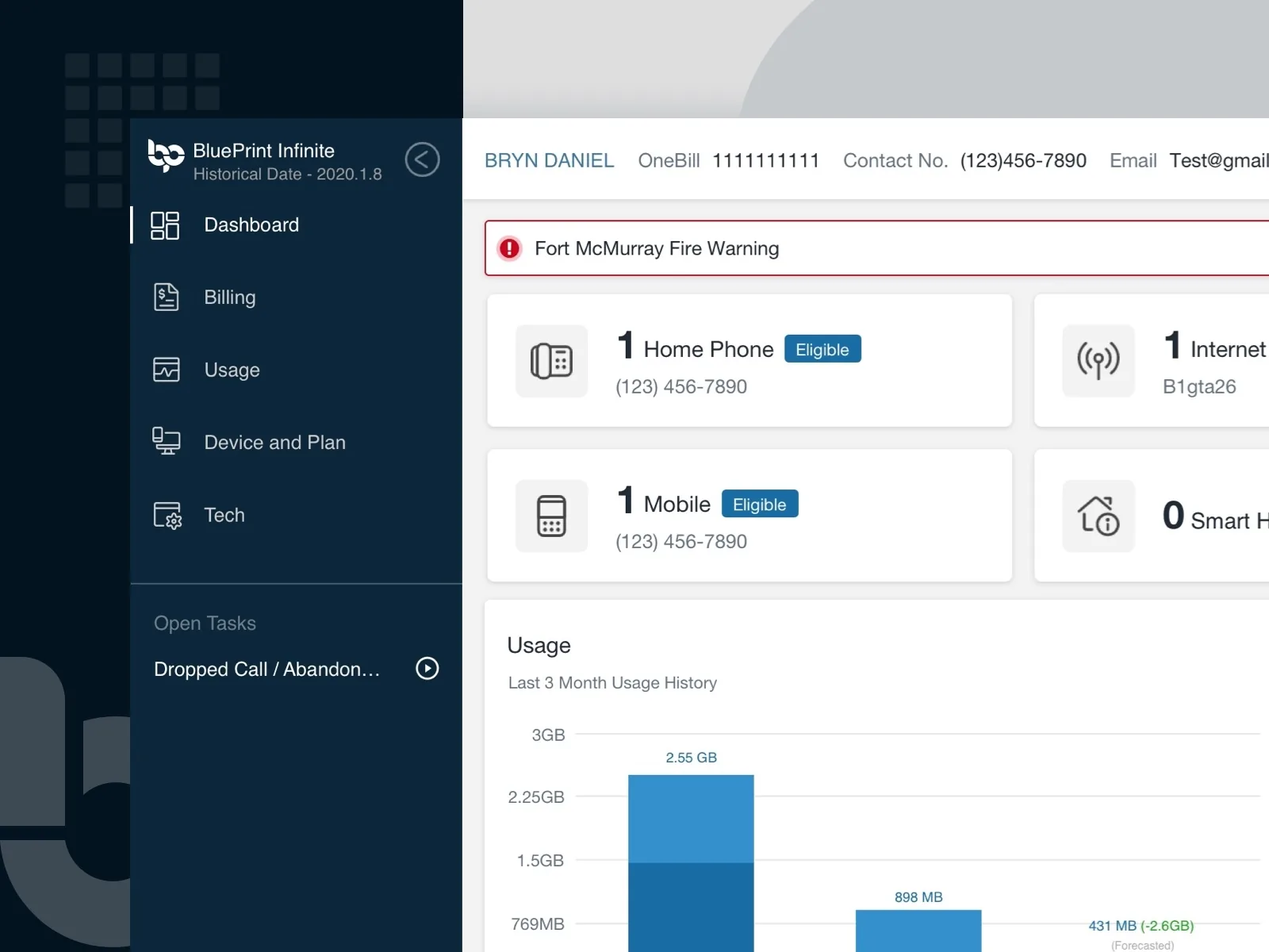
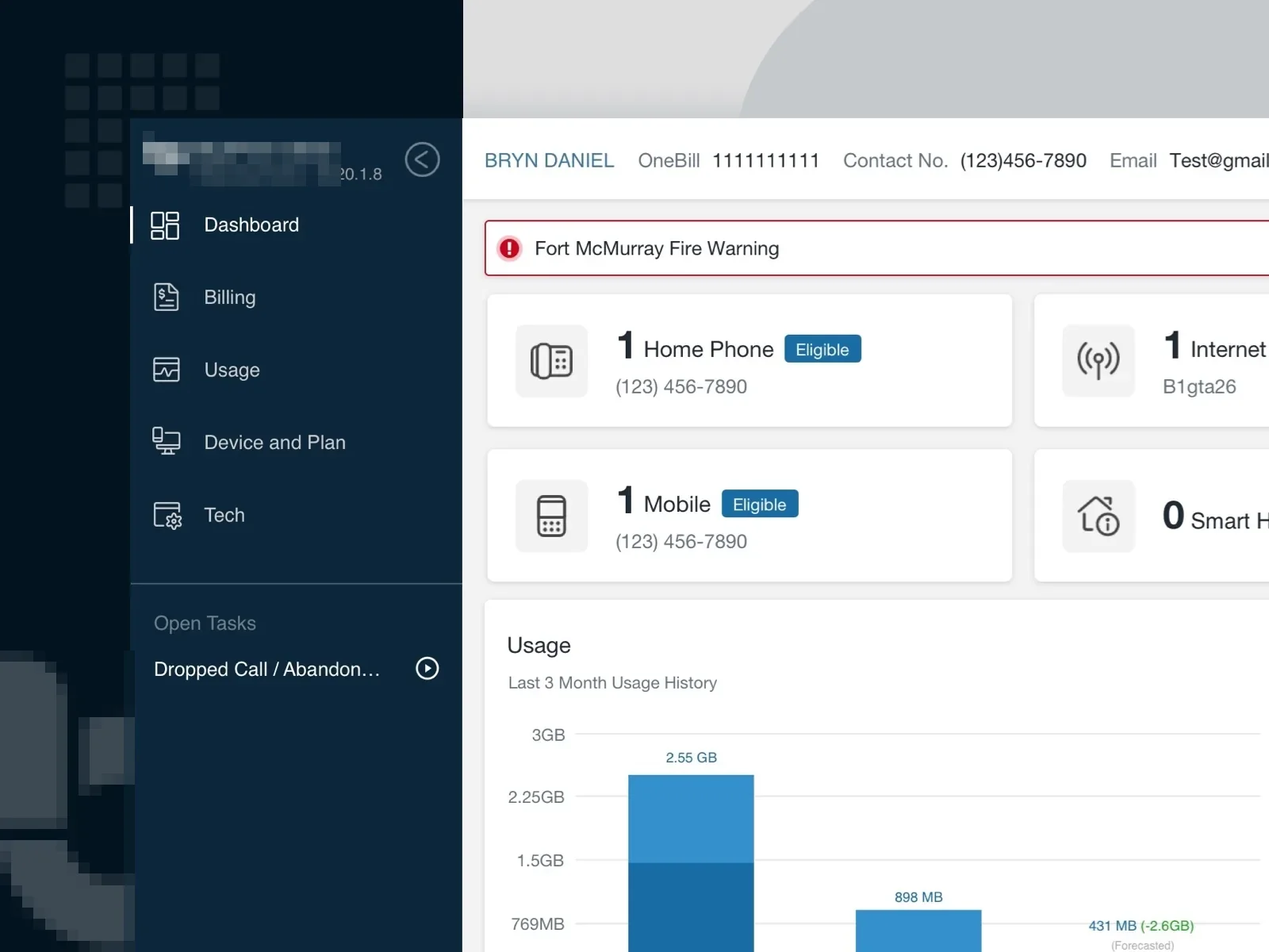
modify on comment

diff --git a/index.html b/index.html
@@ -11,7 +11,7 @@
 @supports (height:100svh){:root{--ch:100svh}} /* mobile: size the stage to the small viewport so nothing hides behind the browser toolbar */
 *{box-sizing:border-box;margin:0;padding:0}
 html{scroll-behavior:auto}
-body{height:1000vh;background:#ffffff;font-family:Inter,"Helvetica Neue",Helvetica,-apple-system,"PingFang SC","Noto Sans SC",sans-serif;color:var(--fg);overflow-x:hidden}
+body{height:780vh;background:#ffffff;font-family:Inter,"Helvetica Neue",Helvetica,-apple-system,"PingFang SC","Noto Sans SC",sans-serif;color:var(--fg);overflow-x:hidden}
 #stage{position:fixed;inset:0;overflow:hidden}
 #bg{position:absolute;inset:0}
 #wipe{position:absolute;inset:0;width:100%;height:100%;display:block}
@@ -51,6 +51,7 @@ body{height:1000vh;background:#ffffff;font-family:Inter,"Helvetica Neue",Helveti
 .gal{height:100%;overflow-y:auto;overscroll-behavior:contain;border-radius:1.5vw;background:#141414;color:#f4efe6;padding:1.4vw;scrollbar-width:thin;scrollbar-color:#f4efe6 transparent}
 .gal::-webkit-scrollbar{width:6px}.gal::-webkit-scrollbar-thumb{background:#f4efe6;border-radius:3px}.gal::-webkit-scrollbar-track{background:transparent}
 .galhead{display:flex;justify-content:space-between;font-size:11px;letter-spacing:.2em;text-transform:uppercase;opacity:.6;padding:.2vw .2vw 1.2vw}
+.galhead em{font-style:normal}
 .gal figure{margin:0 0 1.6vw}
 .gal img{width:100%;display:block;border-radius:.9vw;background:#f4efe6;transition:transform .5s cubic-bezier(.34,1.3,.64,1)}
 .gal figure:hover img{transform:scale(1.015)}
@@ -63,8 +64,13 @@ body{height:1000vh;background:#ffffff;font-family:Inter,"Helvetica Neue",Helveti
 .gal figcaption b{font-size:1.6vw;font-weight:800;letter-spacing:-.05em;line-height:1;color:#ffc93c}
 .gal figcaption strong{display:block;font-size:.95vw;font-weight:600;letter-spacing:-.01em}
 .gal figcaption span{display:block;font-size:.75vw;opacity:.6;margin-top:.25vw;letter-spacing:.02em}
+/* experience (scene 5): the dark card is the frame, the controls sit under it like the reels; ink controls so they read on lilac and over the cream shape */
+.car.tcar .ctl{color:#141414}
+.car.tcar .ctl button{background:#141414;color:#f4efe6}.car.tcar .ctl button:hover{background:#ffc93c;color:#141414}
+.fx.tcar{display:flex;flex-direction:column;gap:1.2vw}
+.tcar .frame.tl{aspect-ratio:auto;flex:1;min-height:0;height:auto}
 .shape .tl{height:100%;border-radius:1.5vw;background:#141414;color:#f4efe6;padding:1.4vw 1.6vw;display:flex;flex-direction:column;overflow:hidden;outline:none}
-.tl:focus-visible{box-shadow:0 0 0 2px #ffc93c inset}
+.tcar:focus-visible .frame{box-shadow:0 0 0 2px #ffc93c inset}
 .xp{flex:1;min-height:0;display:grid;grid-template-columns:8.5vw 1fr;grid-template-rows:minmax(0,1fr);gap:0 1.8vw}
 .xp .rail{display:flex;flex-direction:column;align-self:start}
 .xp .yrs{position:relative;display:flex;flex-direction:column}
@@ -93,7 +99,7 @@ body{height:1000vh;background:#ffffff;font-family:Inter,"Helvetica Neue",Helveti
 .xp .cnt{font-size:12px;letter-spacing:.2em;font-variant-numeric:tabular-nums;flex-basis:100%;margin-top:.5vw;opacity:.7}
 .xp .card.swap .body{animation:xpIn .55s cubic-bezier(.34,1.3,.64,1)}
 @keyframes xpIn{0%{opacity:0;transform:translateY(16px)}100%{opacity:1;transform:none}}
-.car{display:flex;flex-direction:column;gap:1.2vw}
+.car,.fx.car{display:flex;flex-direction:column;gap:1.2vw}
 .car .frame{position:relative;width:100%;aspect-ratio:16/9;border-radius:1.5vw;overflow:hidden;background:#141414}
 .car .track{display:flex;height:100%;transition:transform .75s cubic-bezier(.34,1.25,.64,1)}
 .car .slide{position:relative;flex:0 0 100%;height:100%}
@@ -113,13 +119,13 @@ body{height:1000vh;background:#ffffff;font-family:Inter,"Helvetica Neue",Helveti
 .car .cover i{width:0;height:0;border-left:3.2vw solid currentColor;border-top:2vw solid transparent;border-bottom:2vw solid transparent;margin-left:.6vw;transition:transform .5s cubic-bezier(.34,1.56,.64,1)}
 .car .cover:hover i{transform:scale(1.2)}
 .car .cover span{font-size:12px;letter-spacing:.16em;text-transform:uppercase;opacity:.7}
-.car .ctl{display:flex;align-items:center;gap:1.2vw;color:#f4efe6}
-.car .ctl button{width:3vw;height:3vw;border-radius:50%;border:0;background:#f4efe6;color:#141414;font:700 1.2vw/1 Inter,sans-serif;cursor:pointer;transition:transform .4s cubic-bezier(.34,1.56,.64,1),background .3s}
-.car .ctl button:hover{transform:scale(1.15) rotate(-8deg);background:#ffc93c}
-.car .cnt{font-size:12px;letter-spacing:.2em;font-variant-numeric:tabular-nums}
-.car .dots{display:flex;gap:.6vw;margin-left:auto}
-.car .dots i{width:.7vw;height:.7vw;border-radius:50%;background:#f4efe6;opacity:.35;transition:all .3s}
-.car .dots i.on{opacity:1;transform:scale(1.4);background:#ffc93c}
+.car .ctl,.gal .ctl{display:flex;align-items:center;gap:1.2vw;color:#f4efe6}
+.car .ctl button,.gal .ctl button{width:3vw;height:3vw;border-radius:50%;border:0;background:#f4efe6;color:#141414;font:700 1.2vw/1 Inter,sans-serif;cursor:pointer;transition:transform .4s cubic-bezier(.34,1.56,.64,1),background .3s}
+.car .ctl button:hover,.gal .ctl button:hover{transform:scale(1.15) rotate(-8deg);background:#ffc93c}
+.car .cnt,.gal .cnt{font-size:12px;letter-spacing:.2em;font-variant-numeric:tabular-nums}
+.car .dots,.gal .dots{display:flex;gap:.6vw;margin-left:auto}
+.car .dots i,.gal .dots i{width:.7vw;height:.7vw;border-radius:50%;background:#f4efe6;opacity:.35;transition:all .3s}
+.car .dots i.on,.gal .dots i.on{opacity:1;transform:scale(1.4);background:#ffc93c}
 .fx-jelly{animation:fxJelly .7s cubic-bezier(.34,1.56,.64,1)}
 .fx-spin{animation:fxSpin .8s cubic-bezier(.34,1.4,.64,1)}
 .fx-wobble{animation:fxWobble .8s ease-out}
@@ -190,7 +196,7 @@ body{height:1000vh;background:#ffffff;font-family:Inter,"Helvetica Neue",Helveti
 @media (prefers-reduced-motion:reduce){@view-transition{navigation:none}}
 @media (max-width:720px){.brand span{display:none}}
 @media (orientation:portrait){
-  body{height:550vh} /* half the scroll distance per section on phones: ~90vh per page instead of 180vh */
+  body{height:530vh} /* shorter on phones: ~86vh of scrolling per page */
   .shape{left:var(--ml,var(--dl));top:var(--mt,var(--dt));bottom:var(--mb,var(--db));width:var(--mw,var(--dw));height:var(--mh,var(--dh))}
   .shape.txt .fx{font-size:var(--mfs,var(--dfs))}
   .shape.geo .fx{border-radius:var(--mr,var(--dr))}
@@ -203,17 +209,20 @@ body{height:1000vh;background:#ffffff;font-family:Inter,"Helvetica Neue",Helveti
   .copy .links{margin-top:20px;gap:18px;font-size:13px;flex-wrap:wrap}
   .nav{right:10px;gap:10px}
   .counter{right:22px}
-  .gal{padding:3vw;border-radius:4vw}.gal img{border-radius:2.5vw}.gal figure{margin-bottom:4vw}
+  .gal{padding:3vw;border-radius:4vw}.gal img{border-radius:2.5vw}.gal figure{margin-bottom:4vw}.galhead .gcount{display:none}
+  .short .shape.gallery{--mt:calc(var(--ch)*.5)!important;--mh:calc(var(--ch)*.46)!important}
   .gal figcaption{padding:2.5vw .5vw 0;gap:3vw}.gal figcaption strong{font-size:14px}.gal figcaption span{font-size:12px}.gal figcaption b{font-size:22px}
   .gal .more{font-size:11px;margin-top:6px}
+  .tcar .ctl{gap:3vw}.tcar .ctl button{width:36px;height:36px;font-size:14px}
   .car{gap:3vw}.car .frame{border-radius:4vw}.car .ctl{gap:3vw}.car .ctl button{width:36px;height:36px;font-size:14px}.car .dots{gap:6px}.car .dots i{width:6px;height:6px}
   .car .cover b{font-size:14vw;left:5vw;top:3vw}.car .cover i{border-left-width:8vw;border-top-width:5vw;border-bottom-width:5vw}
   .car .cover::before{width:16vw;height:16vw;margin:-8vw 0 0 -8vw}.car .cover span{left:4vw;bottom:3vw;max-width:80%;font-size:10px;padding:6px 10px}
-  .tl{padding:4vw;border-radius:4vw}
-  .xp{grid-template-columns:1fr;grid-template-rows:auto minmax(0,1fr) auto;gap:3vw 0}
+  .shape .tl{padding:6.5vw 6vw 5.5vw;border-radius:4vw} /* .shape .tl so it beats the desktop rule of the same name */
+  .xp{grid-template-columns:1fr;grid-template-rows:auto minmax(0,1fr) auto;gap:5vw 0}
+  .xp .body{padding-right:3vw}
   .xp .rail{display:contents}
   .xp .yrs{order:0}.xp .card{order:1}.xp .ctl{order:2}
-  .xp .yrs{flex-direction:row;justify-content:space-between;align-items:flex-end;padding:0 1vw}
+  .xp .yrs{flex-direction:row;justify-content:space-between;align-items:flex-end;padding:0 1.5vw}
   .xp .yrs::before{left:4vw;right:4vw;top:auto;bottom:calc(1.5vw - 1px);width:auto;height:2px}
   .xp .yr{flex-direction:column;gap:6px;padding:0}
   .xp .yr .full{display:none}.xp .yr .short{display:block;font-size:10px}
@@ -363,14 +372,14 @@ const SCENES=[
     {t:'rect',x:47,y:30,w:'6vw',h:'12vw',c:C.coral,r:'3vw 3vw 0 0',d:.2},
     {t:'rect',x:47.5,y:66,w:'5vw',h:'5vw',c:C.blue,rot:45,d:.26},
     {t:'gallery',x:54,y:11,w:'40vw',h:'78vh',d:0,items:[
-      {src:'assets/ds-01.webp',title:'MacroHealth Design System',meta:'A design system AI can read · Figma → code for agents · 2026',href:'work/design-system.html',vt:'ds-hero'},
+      {src:'assets/ds-01.webp',title:'MacroHealth Design System',meta:'A design system AI can read · Figma → code for agents · 2026',href:'work/design-system.html',vt:'ds-hero',pos:'center'},
       {src:'assets/ux-03.webp',title:'BluePrint Infinite',meta:'Bell · Call-centre flow system · 2019–2021',href:'work/blueprint.html',vt:'bp-hero'},
       {src:'assets/ux-01.webp',title:'HealthWave',meta:'Landing pages, illustration & icons · Ottawa · 2015–2016',href:'work/healthwave.html',vt:'hw-hero',cta:'View the project →'},]},
     {t:'rect',x:90,y:84,w:'8vw',h:'8vw',c:C.cream,r:'50% 0 50% 0',d:.3},
     {t:'rect',x:58,y:92,w:'12vw',h:'2.2vh',c:C.ink,r:'2vh',d:.36}]},
-  {bg:C.blue,fg:C.cream,k:'02 / Motion Design',title:['Make it','move'],p:'Micro-interactions, UI motion and motion graphics — from storyboards in After Effects to easing curves in code.',tags:['After Effects','Lottie / Rive','UI Motion'],links:['Animated typefaces case study →'],
+  {bg:C.blue,fg:C.cream,k:'02 / Motion Design',title:['Make it','move'],p:'Micro-interactions, UI motion and motion graphics — from storyboards in After Effects to easing curves in code.',tags:['After Effects','Cinema 4D / Blender','UI Motion'],links:['Animated typefaces case study →'],
    shapes:[
-    {t:'video',x:54,y:10,w:'40vw',h:'auto',c:C.cream,d:0,videos:[{id:'286234223',h:'f9b25af99f',title:'Dancing Script animated typeface intro',dur:'0:28',poster:'assets/motion/reel-01.webp'},{id:'120609540',h:'7818cb482d',title:'Supertcp',dur:'1:08',poster:'assets/motion/reel-02.webp'},{id:'121668116',h:'7551d8d867',title:'PSI-missing PV',dur:'1:32',poster:'assets/motion/reel-03.webp'},{id:'73495035',h:'95e8ff8ee7',title:'腦漿炸裂少女 PV',dur:'1:44',poster:'assets/motion/reel-04.webp'}]},
+    {t:'video',x:54,y:10,w:'40vw',h:'auto',c:C.cream,d:0,videos:[{id:'286234223',h:'f9b25af99f',title:'Dancing Script animated typeface intro',dur:'0:28',poster:'assets/motion/reel-01.webp'},{id:'1225807597',title:'Chaos Order',dur:'4:36',poster:'assets/motion/reel-chaos.webp'},{id:'120609540',h:'7818cb482d',title:'Supertcp',dur:'1:08',poster:'assets/motion/reel-02.webp'},{id:'121668116',h:'7551d8d867',title:'PSI-missing PV',dur:'1:32',poster:'assets/motion/reel-03.webp'},{id:'73495035',h:'95e8ff8ee7',title:'腦漿炸裂少女 PV',dur:'1:44',poster:'assets/motion/reel-04.webp'}]},
     {t:'rect',x:54,y:62,w:'8vw',h:'8vw',c:C.cream,r:'50%',d:.1},
     {t:'rect',x:63,y:62,w:'8vw',h:'8vw',c:C.cream,r:'50% 50% 50% 0',d:.14},
     {t:'rect',x:72,y:62,w:'8vw',h:'8vw',c:C.yellow,r:'50% 50% 0 0',d:.18},
@@ -384,7 +393,7 @@ const SCENES=[
     {t:'ring',x:88,y:78,w:'7vw',h:'7vw',c:C.cream,bw:'1vw',d:.4},
     {t:'rect',x:47,y:74,w:'5vw',h:'5vw',c:C.coral,rot:30,d:.42},
     {t:'rect',x:88,y:3,w:'8vw',h:'8vw',c:C.ink,r:'60% 40% 30% 70% / 60% 30% 70% 40%',d:.44}]},
-  {bg:C.cream,fg:C.ink,k:'03 / Development & Ship',title:['Build it','and ship it'],p:'React, Next.js and TypeScript. Design tokens become components, motion specs become real interactions — then it goes live. Release, measure, iterate.',tags:['React / Next.js','TypeScript','GSAP / Framer Motion','Release & iterate'],links:['Design system case study →'],
+  {bg:C.cream,fg:C.ink,k:'03 / Development & Ship',title:['Build it','and ship it'],p:'React, Next.js and TypeScript. Design tokens become components, motion specs become real interactions — then it goes live. Release, measure, iterate.',tags:['React / Next.js','TypeScript','Release & iterate'],links:['Design system case study →'],
    shapes:[
     {t:'rect',x:54,y:12,w:'40vw',h:'58vh',c:C.ink,r:'1.5vw',d:0},
     {t:'circle',x:55.4,y:13.6,w:'1vw',h:'1vw',c:C.coral,d:.04},
@@ -403,11 +412,11 @@ const SCENES=[
   {bg:C.lilac,fg:C.ink,k:'About',title:['Bit more','about me'],p:'I started out as an engineer and picked up UX and motion design along the way — so I can design what I build, and build what I design. Today I\'m a Senior Frontend Engineer at MacroHealth (Vancouver), working remotely from Ottawa.',
    shapes:[
     {t:'timeline',x:54,y:10,w:'40vw',h:'78vh',d:0,items:[
-      {when:'2021 — Now',role:'Senior Frontend Engineer',org:'MacroHealth · Vancouver (remote from Ottawa)',desc:'Front-end across MacroHealth\'s healthcare data products — from the shared component library to the customer portal.',bullets:['Led the migration of the customer Portal off Liferay onto a standalone React / Vite app with a Node BFF','Built and maintain the company-wide React component library (common-ui) used across all products','Created the design system package: Figma Code Connect mappings, token pipeline, Storybook and an MCP server for design-to-code','Shipped the Network Optimization Analytics UI — rule builder, regional maps, solution comparison, PDF export','Rebuilt Tableau dashboards as native React reporting widgets with drill-downs and streamed exports'],stack:['React','TypeScript','Vite','Tailwind','Storybook','GraphQL','Node.js','Figma Code Connect']},
-      {when:'2016 — 2021',role:'UX Developer',org:'Bell · Ottawa',desc:'Blueprint Infinite — Bell\'s large-scale agent web app.',bullets:['Led the end-to-end redesign: research, wireframes, UI mockups and prototypes','Designed and built the design system with Sketch, Angular and Storybook','Implemented core UI functionality in an Agile team with code reviews','Created new app branding and promotional videos'],stack:['Angular','Storybook','Sketch','After Effects']},
-      {when:'2015 — 2016',role:'Designer & Front-end Developer',org:'Fullscript · Ottawa',desc:'HealthWave — practitioner e-commerce platform.',bullets:['Designed the UI for the HealthWave iPad app','Created and implemented the UI kit for the web app','Built the public catalog and category pages','Designed and developed the marketing landing page'],stack:['UI Kit','HTML / CSS','JavaScript']},
-      {when:'2014 — 2015',role:'Designer & Front-end Developer',org:'LiveQoS · Ottawa',desc:'LiveInsight network analytics dashboard and SuperTCP.',bullets:['Built the LiveInsight dashboard with Angular.js and D3.js on Rails / PostgreSQL','UI/UX and mobile-first design for SuperTCP (Bootstrap, Less, CoffeeScript)','Produced promo videos with Cinema 4D, After Effects, Illustrator and Photoshop'],stack:['Angular.js','D3.js','Cinema 4D','After Effects']},
-      {when:'2013 — 2014',role:'Web Application Developer',org:'inVUze · Kitchener',desc:'Web apps, games and presentation tools.',bullets:['WebSocket presentation app: control slides from a phone while the audience comments live','"Dye Dash" — a four-player online game using phones as controllers','Designed and developed the company website'],stack:['ASP.NET','SQL Server','jQuery','HTML5']},
+      {when:'2021 — Now',role:'Senior Frontend Engineer',org:'MacroHealth · Vancouver (remote from Ottawa)',desc:'I own the front end across MacroHealth\'s healthcare data products, from the shared UI library to the customer portal.',bullets:['Led the design and build of the new customer portal, replacing a legacy CMS-based portal with a standalone React app','Led the design and implementation of the company-wide UI component library, now used by every product team','Made the design system machine-readable so designers and coding agents build from one source of truth','Led front-end delivery of the analytics product from first mockups to shipped features','Replaced embedded BI dashboards with native, interactive reporting inside the product'],stack:['React','TypeScript','Storybook','GraphQL','Node.js','Figma','MCP']},
+      {when:'2016 — 2021',role:'UX Developer',org:'Bell · Ottawa',desc:'BluePrint Infinite, the agent web app used across Bell\'s call centres.',bullets:['Led the end-to-end redesign that merged two legacy tools into one and cut average handling time per call','Designed and built the product\'s design system and component library, then implemented core features with the team','Created the product\'s identity and its promotional videos'],stack:['Angular','Storybook','Sketch','After Effects']},
+      {when:'2015 — 2016',role:'Designer & Front-end Developer',org:'Fullscript · Ottawa',desc:'HealthWave, a practitioner e-commerce platform.',bullets:['Designed the iPad app UI and built the UI kit for the web app','Designed and built the public marketing site, including its illustration and icon sets','Built the public catalogue and category pages'],stack:['UI Kit','HTML / CSS','JavaScript']},
+      {when:'2014 — 2015',role:'Designer & Front-end Developer',org:'LiveQoS · Ottawa',desc:'LiveInsight network analytics and the SuperTCP product.',bullets:['Built the LiveInsight analytics dashboard from the ground up, front end and data visualisation','Led UI/UX and mobile-first design for SuperTCP','Produced the products\' promotional videos'],stack:['Angular.js','D3.js','Cinema 4D','After Effects']},
+      {when:'2013 — 2014',role:'Web Application Developer',org:'inVUze · Kitchener',desc:'Web apps, games and presentation tools.',bullets:['Built a live presentation app: slides controlled from a phone while the audience comments in real time','Built a four-player online game that uses phones as controllers','Designed and developed the company website'],stack:['ASP.NET','SQL Server','jQuery','HTML5']},
       {when:'2011 — 2014',role:'Diploma, Computer Software Technology',org:'Conestoga College',desc:'',bullets:[],stack:[]}]},
     {t:'ring',x:46,y:12,w:'6vw',h:'6vw',c:C.ink,bw:'1.1vw',d:.14},
     {t:'rect',x:47,y:30,w:'6vw',h:'12vw',c:C.yellow,r:'3vw 3vw 0 0',d:.2},
@@ -427,8 +436,8 @@ const SCENES=[
 const bars=(i)=>({x:9+[0,6,6,12,12,6,0,0,6,12,6,0][i]*1.1,y:53.5+i*2.35,w:([10,20,10,16,8,22,6,14,18,12,9,5][i]*2.4)+'vw',h:'1.3vh'});
 const M=[
   [{x:14,y:36,w:'72vw',h:'72vw'},{x:-10,bottom:0,w:'36vw',h:'18vw'},{x:84,y:38,w:'7vw',h:'7vw'},{x:6,y:42,w:'5vw',h:'5vw'},null,{x:10,bottom:0,w:'80vw',h:'56vh'}],
-  [{x:82,y:44,w:'6vw',h:'6vw'},null,{x:5,y:45,w:'4vw',h:'4vw'},{x:6,y:52,w:'88vw',h:'43vh'},null,null],
-  [{x:6,y:46,w:'88vw',h:'auto'},{x:6,y:82,w:'14vw',h:'14vw'},{x:24,y:82,w:'14vw',h:'14vw'},{x:42,y:82,w:'14vw',h:'14vw'},{x:60,y:82,w:'14vw',h:'14vw'},{x:78,y:82,w:'7vw',h:'14vw'},null,null,null,null,null,{x:88,y:82,w:'6vw',h:'6vw'},null,{x:84,y:40,w:'9vw',h:'9vw'}],
+  [{x:82,y:44,w:'6vw',h:'6vw'},null,{x:5,y:45,w:'4vw',h:'4vw'},{x:6,y:45,w:'88vw',h:'50vh'},null,null],
+  [{x:6,y:53,w:'88vw',h:'auto'},null,null,null,null,null,null,null,null,null,null,null,null,{x:84,y:40,w:'9vw',h:'9vw'}], /* phones: only the carousel and the blob; the shape row underneath is hidden */
   [{x:6,y:48,w:'88vw',h:'36vh'},{x:8.5,y:49.6,w:'2.2vw',h:'2.2vw'},{x:11.8,y:49.6,w:'2.2vw',h:'2.2vw'},{x:15.1,y:49.6,w:'2.2vw',h:'2.2vw'},{x:22,y:49.4,w:'22vw',h:'1.2vh'},
    ...Array.from({length:12},(_,i)=>bars(i)),{x:22,y:82.5,w:'3vw',h:'1.6vh'},{x:66,y:76,fs:'22vw'},{x:80,y:90,w:'14vw',h:'14vw'},null,{x:84,y:40,w:'5vw',h:'5vw'},{x:6,y:91,w:'40vw',h:'1.6vh'},{x:48,y:91,w:'12vw',h:'1.6vh'},{x:64,y:90.2,fs:'3.8vw'}],
   [{x:6,y:50,w:'88vw',h:'46vh'},null,null,null,null,null],
@@ -509,11 +518,11 @@ const S=SCENES.map((sc,i)=>{
     else if(s.t==='img'){f.innerHTML=`<img src="${s.src}" alt="" draggable="false">`}
     else if(s.t==='rig'){f.innerHTML=`<div class="char"><img src="${s.src}" alt="" draggable="false"><div class="face"></div><div class="bubble" aria-live="polite"></div></div>`;initRig(f.querySelector('.char'),s)}
     else if(s.t==='ring'){f.style.borderRadius='50%';f.style.border=`${U(s.bw)} solid ${s.c}`}
-    else if(s.t==='gallery'){f.classList.add('gal');
-      f.innerHTML=`<div class="galhead"><span>Selected work</span><span>scroll ↓</span></div>`+s.items.map((it,i)=>{const inner=`<img src="${it.src}" alt="${it.title}" loading="${it.vt?'eager':'lazy'}" draggable="false"${it.vt?` data-vt="${it.vt}"`:''}><figcaption><b>0${i+1}</b><div><strong>${it.title}</strong><span>${it.meta}</span>${it.href?`<em class="more">${it.cta||'Read the case study →'}</em>`:''}</div></figcaption>`;return it.href?`<figure class="has-cs"><a href="${it.href}" aria-label="${it.title} — read the case study">${inner}</a></figure>`:`<figure>${inner}</figure>`}).join('');
+    else if(s.t==='gallery'){f.classList.add('gal');const n=s.items.length;
+      f.innerHTML=`<div class="galhead"><span>Selected work</span><span><em class="gcount">${n} case studies · </em>scroll ↓</span></div>`+s.items.map((it,i)=>{const inner=`<img src="${it.src}" alt="${it.title}" loading="${it.vt?'eager':'lazy'}" draggable="false"${it.vt?` data-vt="${it.vt}"`:''}><figcaption><b>0${i+1}</b><div><strong>${it.title}</strong><span>${it.meta}</span>${it.href?`<em class="more">${it.cta||'Read the case study →'}</em>`:''}</div></figcaption>`;return it.href?`<figure class="has-cs"><a href="${it.href}" aria-label="${it.title} — ${(it.cta||'Read the case study').replace(' →','').toLowerCase()}">${inner}</a></figure>`:`<figure>${inner}</figure>`}).join('');
       f.addEventListener('wheel',e=>{const atTop=f.scrollTop<=0&&e.deltaY<0,atEnd=f.scrollTop+f.clientHeight>=f.scrollHeight-1&&e.deltaY>0;if(!atTop&&!atEnd)e.stopPropagation()},{passive:true});}
-    else if(s.t==='timeline'){f.classList.add('tl');const items=s.items;let idx=0;
-      f.innerHTML=`<div class="galhead"><span>Experience</span></div><div class="xp"><div class="rail"><div class="yrs">${items.map(it=>`<button class="yr" type="button" title="${it.role}"><span class="full">${it.when}</span><span class="short">${it.when.slice(0,4)}</span><i></i></button>`).join('')}</div><div class="ctl"><button class="pv" aria-label="previous role">←</button><button class="nx" aria-label="next role">→</button><span class="cnt"></span></div></div><div class="card"><div class="body"></div></div></div>`;
+    else if(s.t==='timeline'){f.classList.add('car','tcar');const items=s.items;let idx=0;
+      f.innerHTML=`<div class="frame tl"><div class="galhead"><span>Experience</span></div><div class="xp"><div class="rail"><div class="yrs">${items.map(it=>`<button class="yr" type="button" title="${it.role}"><span class="full">${it.when}</span><span class="short">${it.when.slice(0,4)}</span><i></i></button>`).join('')}</div></div><div class="card"><div class="body"></div></div></div></div><div class="ctl"><button class="pv" aria-label="previous role">←</button><span class="cnt"></span><button class="nx" aria-label="next role" style="margin-left:auto">→</button></div>`;
       const body=f.querySelector('.body'),card=f.querySelector('.card'),cnt=f.querySelector('.cnt'),yrs=[...f.querySelectorAll('.yr')];
       const render=it=>`<div class="when">${it.when}</div><div class="role">${it.role}</div><div class="org">${it.org}</div>${it.desc?`<p>${it.desc}</p>`:''}${it.bullets&&it.bullets.length?`<ul>${it.bullets.map(b=>`<li>${b}</li>`).join('')}</ul>`:''}${it.stack&&it.stack.length?`<div class="stack">${it.stack.map(t=>`<em>${t}</em>`).join('')}</div>`:''}`;
       const go=n=>{idx=(n+items.length)%items.length;body.innerHTML=render(items[idx]);body.scrollTop=0;cnt.textContent=`0${idx+1} / 0${items.length}`;yrs.forEach((y,i)=>y.classList.toggle('on',i===idx));card.classList.remove('swap');void card.offsetWidth;card.classList.add('swap')};
@@ -530,7 +539,7 @@ const S=SCENES.map((sc,i)=>{
       const go=n=>{stop();idx=(n+slides.length)%slides.length;track.style.transform=`translateX(${-idx*100}%)`;dots.forEach((d,i)=>d.classList.toggle('on',i===idx));cnt.textContent=`0${idx+1} / 0${slides.length}`};
       f.querySelector('.pv').onclick=e=>{e.stopPropagation();go(idx-1)};f.querySelector('.nx').onclick=e=>{e.stopPropagation();go(idx+1)};
       slides.forEach((sl,i)=>{const cv=sl.querySelector('.cover');cv.onkeydown=e=>{if(e.key==='Enter'||e.key===' '){e.preventDefault();cv.click()}};cv.onclick=()=>{stop();const v=s.videos[i];const fr=document.createElement('iframe');
-        fr.src=`https://player.vimeo.com/video/${v.id}?h=${v.h}&autoplay=1&title=0&byline=0&portrait=0&dnt=1`;fr.allow='autoplay; fullscreen; picture-in-picture';fr.setAttribute('allowfullscreen','');fr.setAttribute('referrerpolicy','strict-origin-when-cross-origin');
+        fr.src=`https://player.vimeo.com/video/${v.id}?${v.h?`h=${v.h}&`:''}autoplay=1&title=0&byline=0&portrait=0&dnt=1`;fr.allow='autoplay; fullscreen; picture-in-picture';fr.setAttribute('allowfullscreen','');fr.setAttribute('referrerpolicy','strict-origin-when-cross-origin');
         sl.appendChild(fr);sl.querySelector('.cover').style.display='none'}});
       d._stop=stop;}
     else if(s.t==='slot'){f.style.borderRadius=U(s.r||'1vw');f.style.border=`2px dashed ${s.c}`;f.style.color=s.c;f.innerHTML=`<span>${s.label}</span>`}
@@ -583,6 +592,18 @@ addEventListener('scroll',()=>{target=clamp(scrollY/maxScroll(),0,1)},{passive:t
 /* deep links (index.html#work etc.) land on the scene directly; and whatever the start position, begin there instead of animating from page one */
 const IDS=['home','work','motion','dev','about','contact'];let lastHash=-1;
 {const gi=IDS.indexOf(location.hash.slice(1));if(gi>0)scrollTo(0,(gi/(N-1))*maxScroll());target=cur=prev=clamp(scrollY/maxScroll(),0,1)}
+/* snap: when scrolling stops between two scenes, finish the move. Past SNAP_AT of a segment in the direction of travel it completes to the next scene, otherwise it settles back. A new wheel/touch input cancels the animation. */
+const SNAP_AT=.22,SNAP_MS=650;let snapTimer=0,snapAnim=0,lastY=scrollY,dir=1;
+const segPx=()=>maxScroll()/(N-1);
+const cancelSnap=()=>{if(snapAnim){cancelAnimationFrame(snapAnim);snapAnim=0}};
+const animateTo=y=>{cancelSnap();const y0=scrollY,d=y-y0;if(Math.abs(d)<1)return;
+  if(matchMedia('(prefers-reduced-motion: reduce)').matches){scrollTo(0,y);return}
+  const t0=performance.now();const step=now=>{const k=Math.min(1,(now-t0)/SNAP_MS),e=k<.5?4*k*k*k:1-Math.pow(-2*k+2,3)/2;scrollTo(0,y0+d*e);snapAnim=k<1?requestAnimationFrame(step):0};
+  snapAnim=requestAnimationFrame(step)};
+const snap=()=>{const sp=segPx();if(!sp)return;const s=scrollY/sp,i=Math.floor(s),f=s-i;if(f<.01||f>.99)return;
+  const to=dir>0?(f>SNAP_AT?i+1:i):(f<1-SNAP_AT?i:i+1);animateTo(clamp(to,0,N-1)*sp)};
+addEventListener('scroll',()=>{const y=scrollY;if(y!==lastY)dir=y>lastY?1:-1;lastY=y;if(snapAnim)return;clearTimeout(snapTimer);snapTimer=setTimeout(snap,180)},{passive:true});
+addEventListener('wheel',cancelSnap,{passive:true});addEventListener('touchstart',cancelSnap,{passive:true});addEventListener('keydown',cancelSnap);
 /* portrait phones with little height (browser toolbar showing) get a compact layout; use the smallest height seen so the toolbar hiding on scroll doesn't flip it back */
 let minH=innerHeight,lastW=innerWidth;
 const fit=()=>{if(innerWidth!==lastW){lastW=innerWidth;minH=innerHeight}minH=Math.min(minH,innerHeight);document.documentElement.classList.toggle('short',matchMedia('(orientation: portrait)').matches&&minH<700)};
@@ -595,7 +616,7 @@ let bulge=0,bulgeV=0;
 let sq=0,sqV=0;
 
 /* transition window inside each segment */
-const T0=.5,T1=.86;
+const T0=.35,T1=.95; /* transition occupies 60% of each segment, so it has room to ease in and out */
 
 function wipeD(type,p,b,W,H,cx,cy,sqz){
   switch(type){
@@ -608,13 +629,23 @@ function wipeD(type,p,b,W,H,cx,cy,sqz){
   }
 }
 
-function frame(){
-  cur+=(target-cur)*.085;const r=cur;
+/* how the stage follows the scroll: a critically damped spring (accelerates in, settles out, never overshoots) with a speed cap.
+   MAX_SCENES_PER_S is the cap for a one-scene move; longer jumps (nav dots, hard flicks) may go proportionally faster so they don't crawl,
+   but always slow to the base cap for the final scene. Scroll input itself is never intercepted. */
+const MAX_SCENES_PER_S=.9,SPRING_W=5;let vcur=0,lastFrame=0;
+function frame(now){
+  const dt=lastFrame?Math.min(.05,(now-lastFrame)/1000):1/60;lastFrame=now||performance.now();
+  const d=target-cur,remaining=Math.abs(d)*(N-1);
+  const vmax=MAX_SCENES_PER_S*Math.max(1,remaining/1.2)/(N-1);
+  vcur+=(d*SPRING_W*SPRING_W-2*SPRING_W*vcur)*dt;vcur=clamp(vcur,-vmax,vmax);
+  cur+=vcur*dt;if(Math.abs(target-cur)<1e-5){cur=target;vcur=0}
+  const r=cur;
   const dv=(r-prev)*(N-1);prev=r;vel=lerp(vel,dv,.2);            // scenes per frame
   mouse.x=lerp(mouse.x,mouse.tx,.06);mouse.y=lerp(mouse.y,mouse.ty,.06);
   const W=innerWidth,H=innerHeight;
   const s=r*(N-1),i=Math.min(Math.floor(s),N-2),f=s-i;
   const tt=clamp((f-T0)/(T1-T0),0,1);          // 0..1 transition progress
+  const te=tt*tt*(3-2*tt);                      // eased progress for the wipe and the incoming scene: gentle start, gentle landing
   const inTrans=f>T0&&f<T1;
   const type=TRANS[i];
   const base=f<T0?i:(f>=T1?i+1:i);curBase=base;
@@ -637,7 +668,7 @@ function frame(){
       pth.setAttribute('d',wipeD(rt,REST[rt],restBulge(rt,k,W,H,performance.now()),W,H,cx,cy,.06*Math.sin(performance.now()/2200+k)));pth.setAttribute('fill',SCENES[k+1].bg);pth.style.display='block'}
     else pth.style.display='none'});
   if(inTrans){
-    const p=(type==='snap'?easeOutBounce(tt):type==='blob'?easeOutExpo(tt):easeOutBack(tt,1.2))*REST[type];
+    const p=(type==='snap'?easeOutBounce(te):type==='blob'?easeOutExpo(te):easeOutBack(te,1.2))*REST[type];
     let cx=W*.5,cy=H*.5;if(type==='blob'){[cx,cy]=blobCenter(A)}
     /* blend the live bulge/squash into the resting wave near the end so the hand-off to the settled layer is seamless */
     const wEnd=smooth(.78,1,tt),now=performance.now();
@@ -668,7 +699,7 @@ function frame(){
   /* incoming scene B */
   if(f>T0){
     st(B.el,'transform',`scaleY(${1+sq}) `);st(B.el,'transformOrigin','50% 100%');st(B.el,'opacity',1);
-    const pi=f>=T1?1:tt;
+    const pi=f>=T1?1:te;
     B.shapes.forEach(sh=>{const q=clamp((pi*1.5-sh.d)/(1),0,1);let tr='';
       switch(type){
         case 'up':tr=`translateY(${(1-easeOutBack(q,1.6))*H*.45}px)`;break;
@@ -715,7 +746,7 @@ addEventListener('pageswap',e=>{if(!e.viewTransition)return;clearCardNames();con
 addEventListener('pagereveal',e=>{clearCardNames();if(!e.viewTransition)return;const from=(window.navigation&&navigation.activation&&navigation.activation.from&&navigation.activation.from.url)||document.referrer||'';
   const fig=cardFor(from);if(!fig)return;const g=fig.closest('.gal');if(g)g.scrollTop=Math.max(0,fig.offsetTop-(g.clientHeight-fig.offsetHeight)/2);
   const img=fig.querySelector('img');img.style.viewTransitionName=img.dataset.vt;e.viewTransition.finished.finally(clearCardNames)});
-frame(); /* draw the first frame synchronously: no empty stage on first paint, and view transitions snapshot a real scene */
+frame(performance.now()); /* draw the first frame synchronously: no empty stage on first paint, and view transitions snapshot a real scene */
 </script>
 <div id="booted" hidden></div>
 </body>

diff --git a/work/blueprint.html b/work/blueprint.html
@@ -329,16 +329,13 @@ h2{font-size:clamp(30px,3.4vw,50px);font-weight:800;letter-spacing:-.04em;line-h
     </div>
     <div class="prose">
       <p>The second half of the brief was an identity. The old app had a name and a blue header, and nothing else. The team was about to present its work to other departments at Bell and needed something to put on a slide, and the app needed a mark that could survive being shrunk into a sidebar.</p>
-      <p>I started on paper: letterforms built from the b and the p, peaks for the blueprint idea, and the infinity loop from the product's name. Five made it to vector. Three made it onto a sheet where each was checked on white, on dark and on the product blue, because the mark had to live on all three.</p>
-      <p>The final mark is a b and a p sharing one infinity loop, drawn from circles on a grid so it stays crisp at any size. It sits in the app's sidebar, appears as a watermark behind the dashboard, and its two blues carry through the interface.</p>
+      <p>I started on paper: letterforms built from the b and the p, peaks for the blueprint idea, and the infinity loop from the product's name. Five made it to vector. Three went onto a sheet where each was checked on white, on dark and on the product blue, because the mark had to live on all three.</p>
+      <p>The chosen direction became a monogram drawn from circles on a grid so it stays crisp at any size. It sits in the app's sidebar, appears as a watermark behind the dashboard, and its two blues carry through the interface. The mark itself belongs to Bell, so it isn't reproduced here and is masked in the product screens; the exploration that led to it is what's shown.</p>
     </div>
   </div>
   <div class="wrap media stack">
     <figure class="reveal"><div class="frame"><img src="../assets/work/blueprint/logo-sketches.webp" width="1800" height="1350" loading="lazy" alt="Dot-grid notebook page of pencil logo sketches: b and p letterforms, mountain peaks, infinity loops, and combinations of the three"></div><figcaption><b>Sketches</b><span>Letterforms, peaks, and the loop from "Infinite".</span></figcaption></figure>
     <figure class="reveal"><div class="frame"><img src="../assets/work/blueprint/logo-concepts.webp" width="1800" height="360" loading="lazy" alt="Five vector logo concepts in a row: layered rounded triangles, two half-circle shapes, two stacked triangles, a folded ribbon B, and a rounded B split by a curve"></div><figcaption><b>Concepts</b><span>Five directions taken to vector.</span></figcaption></figure>
-    <figure class="reveal"><div class="frame"><img src="../assets/work/blueprint/logo-directions.webp" width="1800" height="891" loading="lazy" alt="Sketch artboards: three logo directions, each shown with the BluePrint wordmark on a white, a dark and a blue background"></div><figcaption><b>Shortlist</b><span>Three directions, each checked on white, dark and blue.</span></figcaption></figure>
-    <figure class="reveal"><div class="frame"><img src="../assets/work/blueprint/logo-rationale.webp" width="1800" height="687" loading="lazy" alt="Diagram on dark: a lowercase b, plus a lowercase p, plus an infinity symbol, equals the final bp mark"></div><figcaption><b>Rationale</b><span>b + p + ∞.</span></figcaption></figure>
-    <figure class="reveal"><div class="frame"><img src="../assets/work/blueprint/logo-final.webp" width="1800" height="1145" loading="lazy" alt="The final mark on its construction grid of circles and guide lines, beside the white BluePrint lockup on a dark background"></div><figcaption><b>Final</b><span>Construction grid, and the lockup.</span></figcaption></figure>
   </div>
 </section>
 

diff --git a/work/design-system.html b/work/design-system.html
@@ -218,7 +218,7 @@ pre.code .s{color:var(--yellow)}pre.code .p{color:#8fd3ff}pre.code .c{opacity:.5
 </header>
 <div class="heroimg rise" style="animation-delay:.85s">
   <div class="frame">
-    <img src="../assets/ds-01.webp" width="1600" height="900" alt="MacroHealth Design System cover: the MacroHealth logo and the words Design System in white on navy" fetchpriority="high">
+    <img src="../assets/ds-01.webp" width="1600" height="1200" alt="MacroHealth Design System cover: the MacroHealth logo and the words Design System in white on navy" fetchpriority="high">
   </div>
 </div>
 <div class="metawrap rise" style="animation-delay:1s">
